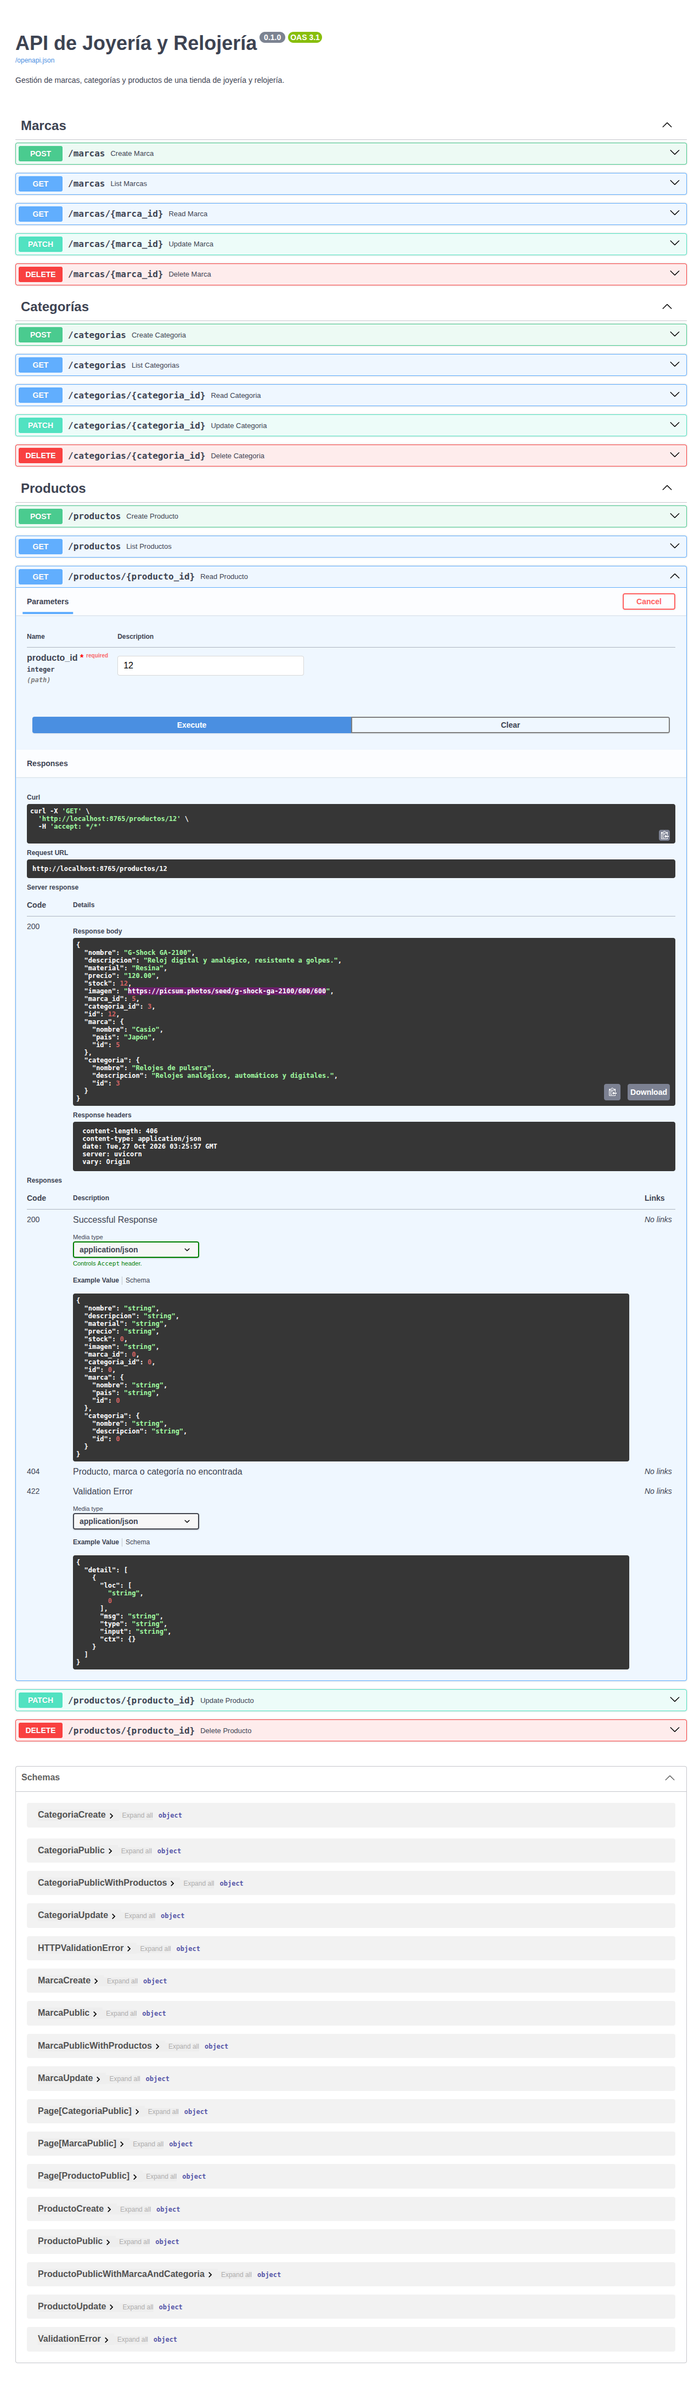
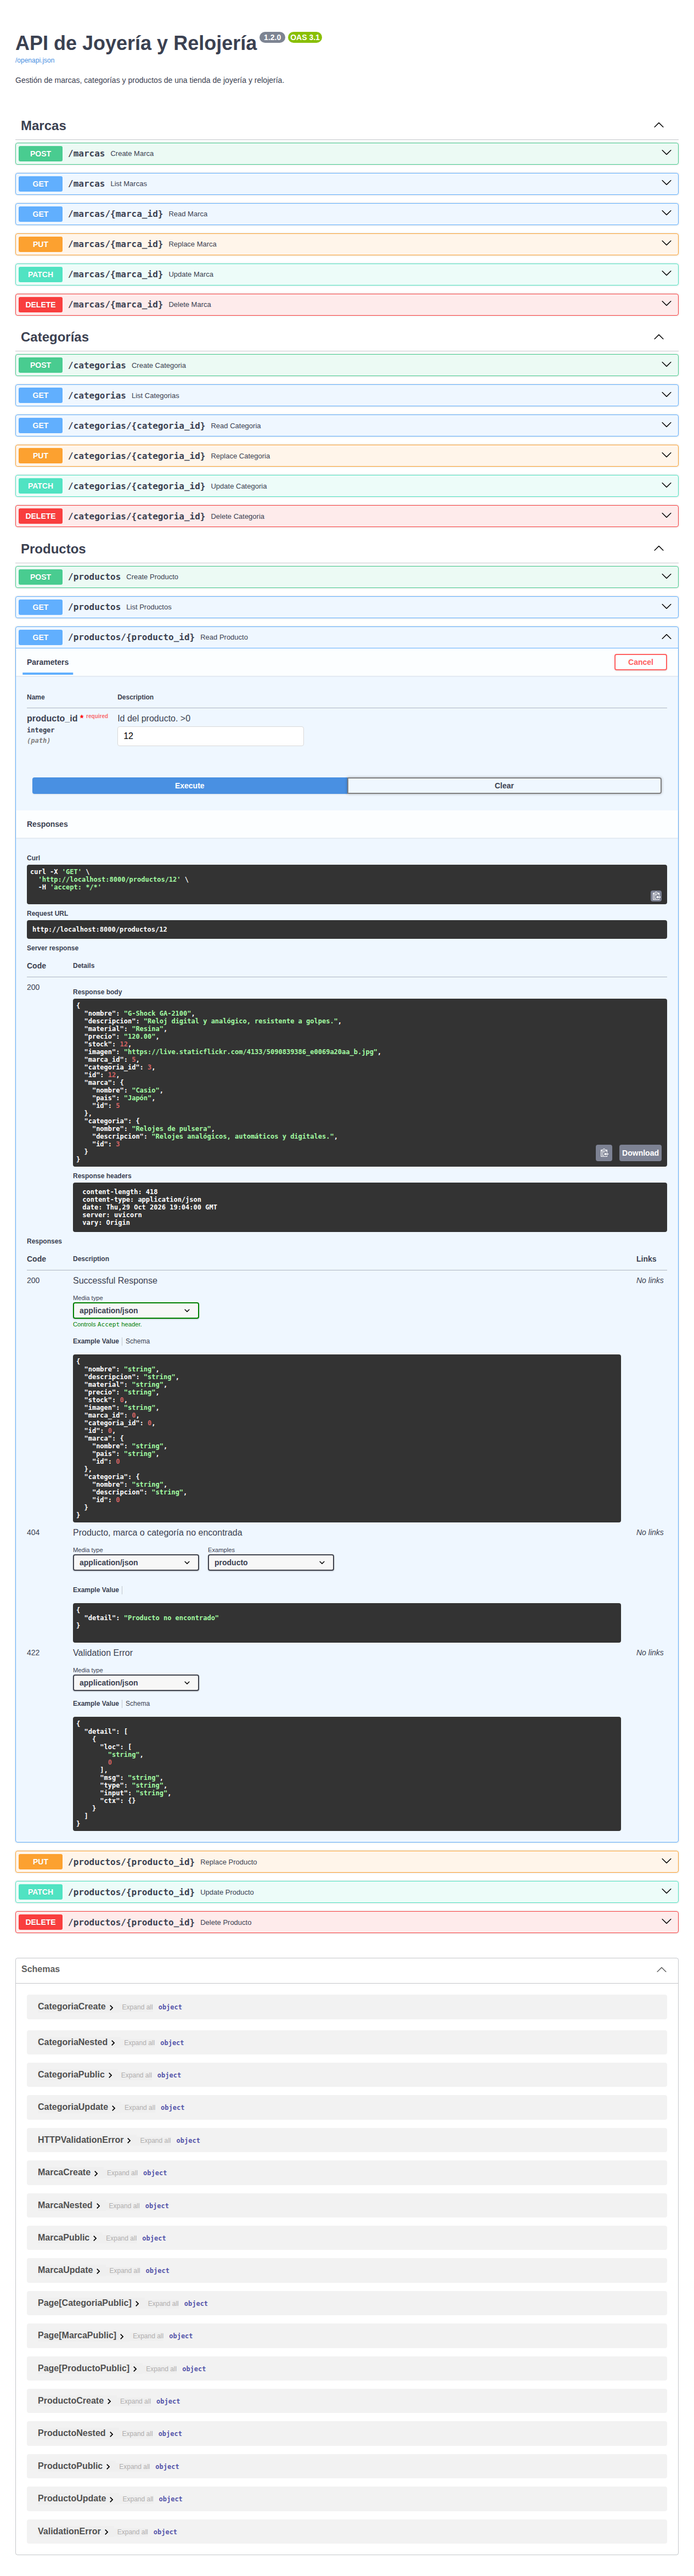
docs: refresh /docs screenshot and README endpoints

diff --git a/README.md b/README.md
@@ -2,6 +2,11 @@
 
 API REST construida con FastAPI y SQLModel para una tienda de joyería y relojería. Gestiona marcas, categorías y productos, y es la API que consume el frontend en React del EFI de JavaScript.
 
+## En producción
+
+- API: `https://efi-joyeria.duckdns.org` (documentación interactiva en https://efi-joyeria.duckdns.org/docs)
+- Frontend que la consume: https://efi-javascript.vercel.app
+
 ## Integrantes
 
 - Altamirano, Julian
@@ -42,7 +47,7 @@ El script de datos de ejemplo no hace nada si la base ya tiene marcas. Para volv
 
 ## Endpoints
 
-Cada modelo tiene cinco endpoints: `marcas`, `categorias` y `productos`.
+Cada modelo tiene seis endpoints: `marcas`, `categorias` y `productos`.
 
 | Método | Ruta | Descripción |
 | --- | --- | --- |
